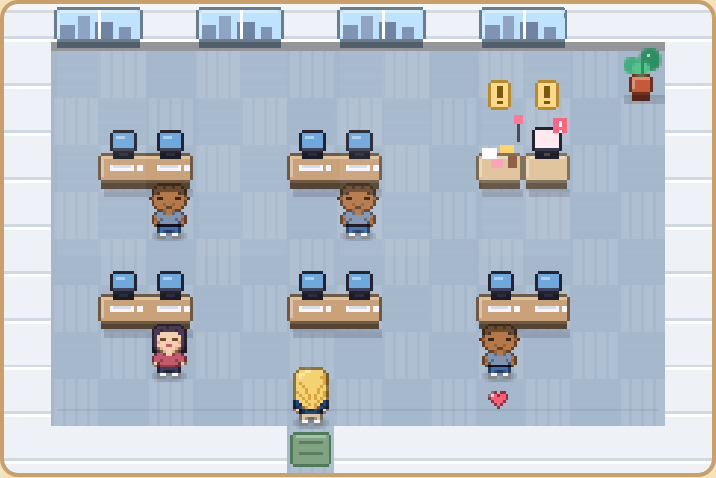
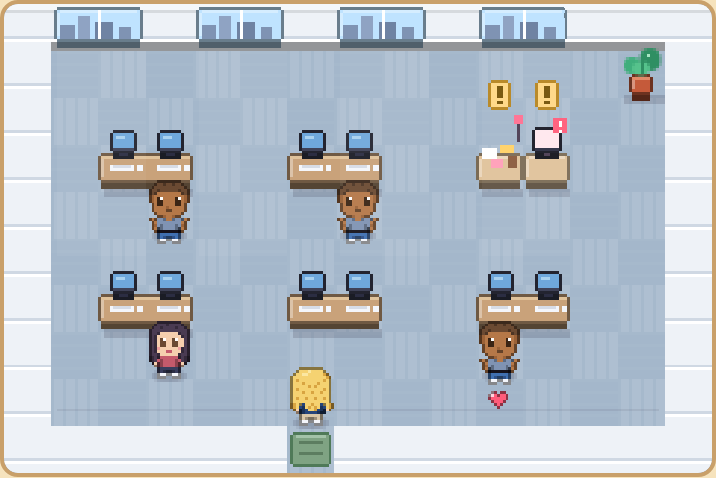
Characters redrawn with villager proportions
Big round heads, tall oval eyes with highlights, tiny mouths, stubby arms and short bodies for Annette (front and back, all outfits), Paulo, Mum and every NPC built from them. Sprite exports and screenshots regenerated; CLAUDE.md notes the proportions.

Claude-Session: https://claude.ai/code/session_013V3J7QvyVWMSHyHkDs2Wb3

diff --git a/index.html b/index.html
@@ -276,10 +276,10 @@ function hsh(x, y, n) { let h = (x * 374761393 + y * 668265263 + n * 982451653) 
 function oval(cx, cy, rx, ry, fill, stroke) { ctx.beginPath(); ctx.ellipse(cx, cy, rx, ry, 0, 0, Math.PI * 2); ctx.fillStyle = fill; ctx.fill(); if (stroke) { ctx.lineWidth = 2; ctx.strokeStyle = stroke === INK ? shade(fill, 0.6) : stroke; ctx.stroke(); } }
 
 /* ---------------- sprites ---------------- */
-const BODY = ["...KTTtSStTTK...", "..KSTTTTTTTTSK..", "..KsTtTTTTtTsK..", "..KSKTTTTTTKSK..", "...KKbbbbbbKK...", "....KPPPPPPK....", "....KPpKKpPK....", "....KBBKKBBK....", "....KKK..KKK...."];
-const girlPal = { K: INK, Y: "#fbe7a1", S: "#f9d1b0", s: "#e6a57f", R: "#f4a3a8", L: "#d9637a", E: "#3d7be0", H: "#f5d271", h: "#d8a441", T: "#ff6f91", t: "#c94a6e", P: "#2b2d42", p: "#1c1d2c", B: "#f4f6fb" };
-const HEAD_F = ["....KKKKKKKK....", "...KHHYYHHHHK...", "..KHYYHHHHHHhK..", "..KHHHHHhhSShK..", "..KHhhSSSSSShK..", "..KHSKKSSKKSHK..", "..KHSEESSEESHK..", "..KHRSSSSSSRHK..", "..KHhSSLLSShHK..", "..KHHKsSSsKHHK..", "..KHHhKSSKhHHK..", "..KHKTTSSTTKHK..", "..KHTTTTTTTTHK..", "..KhtTTTTTTthK..", "..KSKtTTTTtKSK.."];
-const HEAD_B = ["....KKKKKKKK....", "...KHHYYHHHHK...", "..KHYYHHHHHHhK..", "..KHYHHHHHHhhK..", "..KHHHHHHHHHhK..", "..KHhHHHHHHHhK..", "..KHHhHHHHHhHK..", "..KHHHhHHHhHHK..", "..KhHHhHHHhHhK..", "..KHhHHhHhHHhK..", "..KHHhHhHhHhHK..", "..KTHHhHHHhHTK..", "..KTtHHhHhHtTK..", "..KtTKhHHhKTtK..", "..KSKtTKKTtKSK.."];
+const BODY = [".KSKTTtSStTTKSK.", "..KSTTTTTTTTSK..", "..KsTtTTTTtTsK..", "..KSKtTTTTtKSK..", "...KKbbbbbbKK...", "....KPPPPPPK....", "....KPpKKpPK....", "....KBBKKBBK....", "....KKK..KKK...."];
+const girlPal = { K: INK, W: "#ffffff", Y: "#fbe7a1", S: "#f9d1b0", s: "#e6a57f", R: "#f4a3a8", L: "#d9637a", E: "#3d7be0", H: "#f5d271", h: "#d8a441", T: "#ff6f91", t: "#c94a6e", P: "#2b2d42", p: "#1c1d2c", B: "#f4f6fb" };
+const HEAD_F = ["....KKKKKKKK....", "...KHHHYHHHHK...", "..KHHYYHHHHHhK..", ".KHHHHHHHHHHHhK.", ".KHHhSSSSSShHHK.", ".KHhSSSSSSSShHK.", ".KHhSEWSSEWSSHK.", ".KHhSEESSEESSHK.", ".KHhSEESSEESSHK.", ".KHhRSSSSSSRhHK.", ".KHhSSSLLSSShHK.", ".KHHhSSSSSShHHK.", ".KhHKTTTTTTKHhK.", ".KhHTtTTTTtTHhK.", "..KSKtTTTTtKSK.."];
+const HEAD_B = ["....KKKKKKKK....", "...KHHHYHHHHK...", "..KHHYYHHHHHhK..", ".KHHHHHHHHHHHhK.", ".KHhHHHHHHHHhHK.", ".KHHHhHHHHhHHHK.", ".KHHHHHhHhHHHHK.", ".KHhHHHHHHHHhHK.", ".KHHHhHHhHHhHHK.", ".KHHHHHHHHHHHHK.", ".KHhHHhHHhHHhHK.", ".KHHHHHHHHHHHHK.", ".KhHKTHHhHHTKHhK", ".KhHTtHhHhHtTHhK", "..KSKtTHHhTtKSK."];
 const LOWER = {
   pants: ["...KKtTTTTtKK...", "....KPPPPPPK....", "....KPpKKpPK....", "....KBBKKBBK....", "....KKK..KKK...."],
   crop: ["...KKsSSSSsKK...", "....KPPPPPPK....", "....KPpKKpPK....", "....KBBKKBBK....", "....KKK..KKK...."],
@@ -294,8 +294,8 @@ const SPR = {
   annette_back_pants: { pal: girlPal, rows: HEAD_B.concat(LOWER.pants) },
   annette_back_crop: { pal: girlPal, rows: HEAD_B.concat(LOWER.crop) },
   annette_back_dress: { pal: girlPal, rows: HEAD_B.concat(LOWER.dress) },
-  paulo: { pal: { K: INK, S: "#b57848", D: "#2a1d12", d: "#170f08", E: "#3a2414", T: "#1f1a24", t: "#141019", P: "#3f6fb0", p: "#2d5088", B: "#f4f6fb", b: "#15121c", s: "#9a6238" }, rows: ["................", "....KKKKKKKK....", "...KDDdDDdDDK...", "..KDDDDDDDDDDK..", "..KDdSSSSSSdDK..", "..KSSSSSSSSSSK..", ".KsSEESSSSEESsK.", "..KSSSSSSSSSSK..", "..KSSSsSSsSSSK..", "...KSSSKKSSSK...", "....KKsSSsKK...."].concat(BODY) },
-  mum: { pal: { K: INK, S: "#f5cfae", R: "#eea0a0", L: "#c55a6c", E: "#6b4a32", M: "#4a3226", m: "#2f1f18", T: "#7fa383", t: "#5c7d60", P: "#5b5566", p: "#433f4c", B: "#f4f6fb", s: "#e2b28f" }, rows: ["................", "....KKKKKKKK....", "...KMMMmMMMMK...", "..KMMmMMMMmMMK..", "..KMMSSSSSSMMK..", "..KMSSSSSSSSMK..", "..KMSEESSEESMK..", "..KMRSSSSSSRMK..", "..KMSSSLLSSSMK..", "..KmKsSSSSsKmK..", "..KKKKsSSsKKKK..", "...KTTtSStTTK...", "..KTTTTTTTTTTK..", "..KTTtTTTTtTTK..", "..KSKTTTTTTKSK..", "...KKtttttKK....", "....KPPPPPPK....", "....KPpKKpPK....", "....KBBKKBBK....", "....KKK..KKK...."] },
+  paulo: { pal: { K: INK, S: "#b57848", D: "#2a1d12", d: "#170f08", E: "#3a2414", T: "#1f1a24", t: "#141019", P: "#3f6fb0", p: "#2d5088", B: "#f4f6fb", b: "#15121c", s: "#9a6238", W: "#ffffff" }, rows: ["....KKKKKKKK....", "...KDDdDDdDDK...", "..KDDDDDDDDDDK..", ".KDDdDDDDDDdDDK.", ".KDdSSSSSSSSdDK.", ".KsSSSSSSSSSSsK.", ".KsSEWSSSSEWSsK.", ".KsSEESSSSEESsK.", "..KSEESSSSEESK..", "..KSSSSsSSSSSK..", "..KSSSSKKSSSSK..", "...KSSSSSSSSK...", "....KKsSSsKK...."].concat(BODY) },
+  mum: { pal: { K: INK, S: "#f5cfae", R: "#eea0a0", L: "#c55a6c", E: "#6b4a32", M: "#4a3226", m: "#2f1f18", T: "#7fa383", t: "#5c7d60", P: "#5b5566", p: "#433f4c", B: "#f4f6fb", s: "#e2b28f", W: "#ffffff" }, rows: ["....KKKKKKKK....", "...KMMMmMMMMK...", "..KMMmMMMMmMMK..", ".KMMMMMMMMMMMMK.", ".KMMmSSSSSSmMMK.", ".KMmSSSSSSSSmMK.", ".KMmSEWSSEWSSMK.", ".KMmSEESSEESSMK.", ".KMmSEESSEESSMK.", ".KMmRSSSSSSRmMK.", ".KMmSSSLLSSSmMK.", ".KMMmSSSSSSmMMK.", ".KmMKTTTTTTKMmK.", ".KmMTtTTTTtTMmK.", "..KSKtTTTTtKSK..", "...KKtTTTTtKK...", "....KPPPPPPK....", "....KPpKKpPK....", "....KBBKKBBK....", "....KKK..KKK...."] },
   luca: { pal: LUCA_PAL, rows: [".........aAAAa..", "........aAaAAAa.", ".......gdAAAAAAa", "......gddAAKWAAA", ".aa...gdgdAAKAAA", "aAAa..gddAAAAACN", "AgAAa.gdgdAAACCK", "aAAAa.ggdAAACRC.", ".aAAAaagdgAAACa.", "..aAAAAAAaAAAAA.", "..AAgAAAgAAAAAa.", "..AAAAAAAAgAAAA.", "..aAgAAAAAAAAa..", "...AAA...aAAA...", "...gAg...gAg....", "...KKK...KKK...."] },
   luca_walk: { pal: LUCA_PAL, rows: [".........aAAAa..", "........aAaAAAa.", ".......gdAAAAAAa", "......gddAAKWAAA", ".aa...gdgdAAKAAA", "aAAa..gddAAAAACN", "AgAAa.gdgdAAACCK", "aAAAa.ggdAAACRC.", ".aAAAaagdgAAACa.", "..aAAAAAAaAAAAA.", "..AAgAAAgAAAAAa.", "..AAAAAAAAgAAAA.", "..aAgAAAAAAAAa..", "....AAA.aAAA....", "....gAg.gAg.....", "....KKK.KKK....."] },
   luca_wag: { pal: LUCA_PAL, rows: [".........aAAAa..", "........aAaAAAa.", ".......gdAAAAAAa", ".aa...gddAAKWAAA", "aAAa..gdgdAAKAAA", "AgAAa.gddAAAAACN", "aAAAa.gdgdAAACCK", ".aAAAaggdAAACRC.", "..aAAaagdgAAACa.", "..aAAAAAAaAAAAA.", "..AAgAAAgAAAAAa.", "..AAAAAAAAgAAAA.", "..aAgAAAAAAAAa..", "...AAA...aAAA...", "...gAg...gAg....", "...KKK...KKK...."] },

diff --git a/CLAUDE.md b/CLAUDE.md
@@ -19,7 +19,7 @@ A birthday gift game for Annette, built by Paulo. A top-down, handheld-style pix
 
 ## How index.html is organised (search for these banners)
 - `EDIT ME` / `CONFIG`: all personal content (names, car, company, drinks, dishes, inside jokes, secrets, finale speech)
-- `sprites`: pixel sprites as string rows. Each char maps to a palette key, `.` is transparent. Annette is built from `HEAD_F`/`HEAD_B` plus a `LOWER` style (`pants`, `crop`, `dress`). Lower-case keys are shades: when an override recolours `T`, `P`, `H`, `D` or `M`, the matching lower-case key is darkened automatically, so shading follows every outfit and NPC
+- `sprites`: pixel sprites as string rows. Each char maps to a palette key, `.` is transparent. Annette is built from `HEAD_F`/`HEAD_B` plus a `LOWER` style (`pants`, `crop`, `dress`). Characters use villager proportions: a big round head (12 of 20 rows), tall 2x3 oval eyes with a `W` highlight in the top-right pixel, a tiny mouth, stubby arms and a short body. Lower-case keys are shades: when an override recolours `T`, `P`, `H`, `D` or `M`, the matching lower-case key is darkened automatically, so shading follows every outfit and NPC
 - Luca: `luca`, `luca_walk`, `luca_wag` (side view, faces right, flip to face left). Use `lucaSpr(moving)` to pick the frame
 - `state`, `HUD` (needs-style bars coloured by level via `needColour`, in-game clock via `SCENE_TIME` / `setClock`), `audio` (WebAudio SFX + tiny chiptune sequencer), `input` (keyboard + on-screen D-pad/A/B)
 - `UI primitives`: `say()` dialogue with typewriter, `setMenu()` keyboard/touch menus, `fade()`
